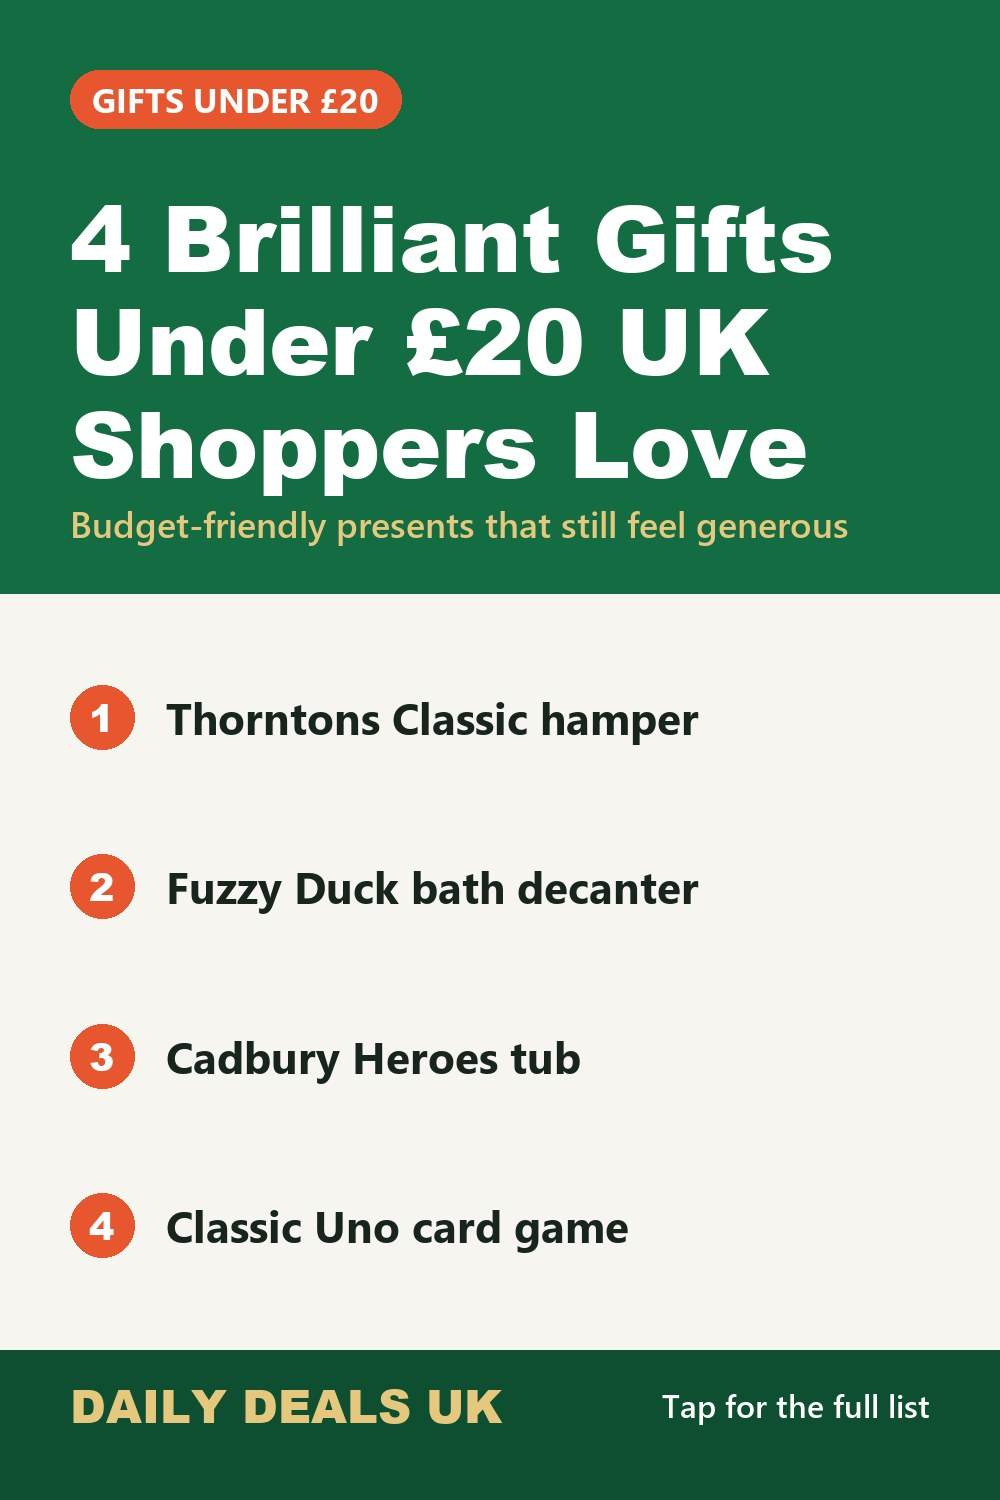
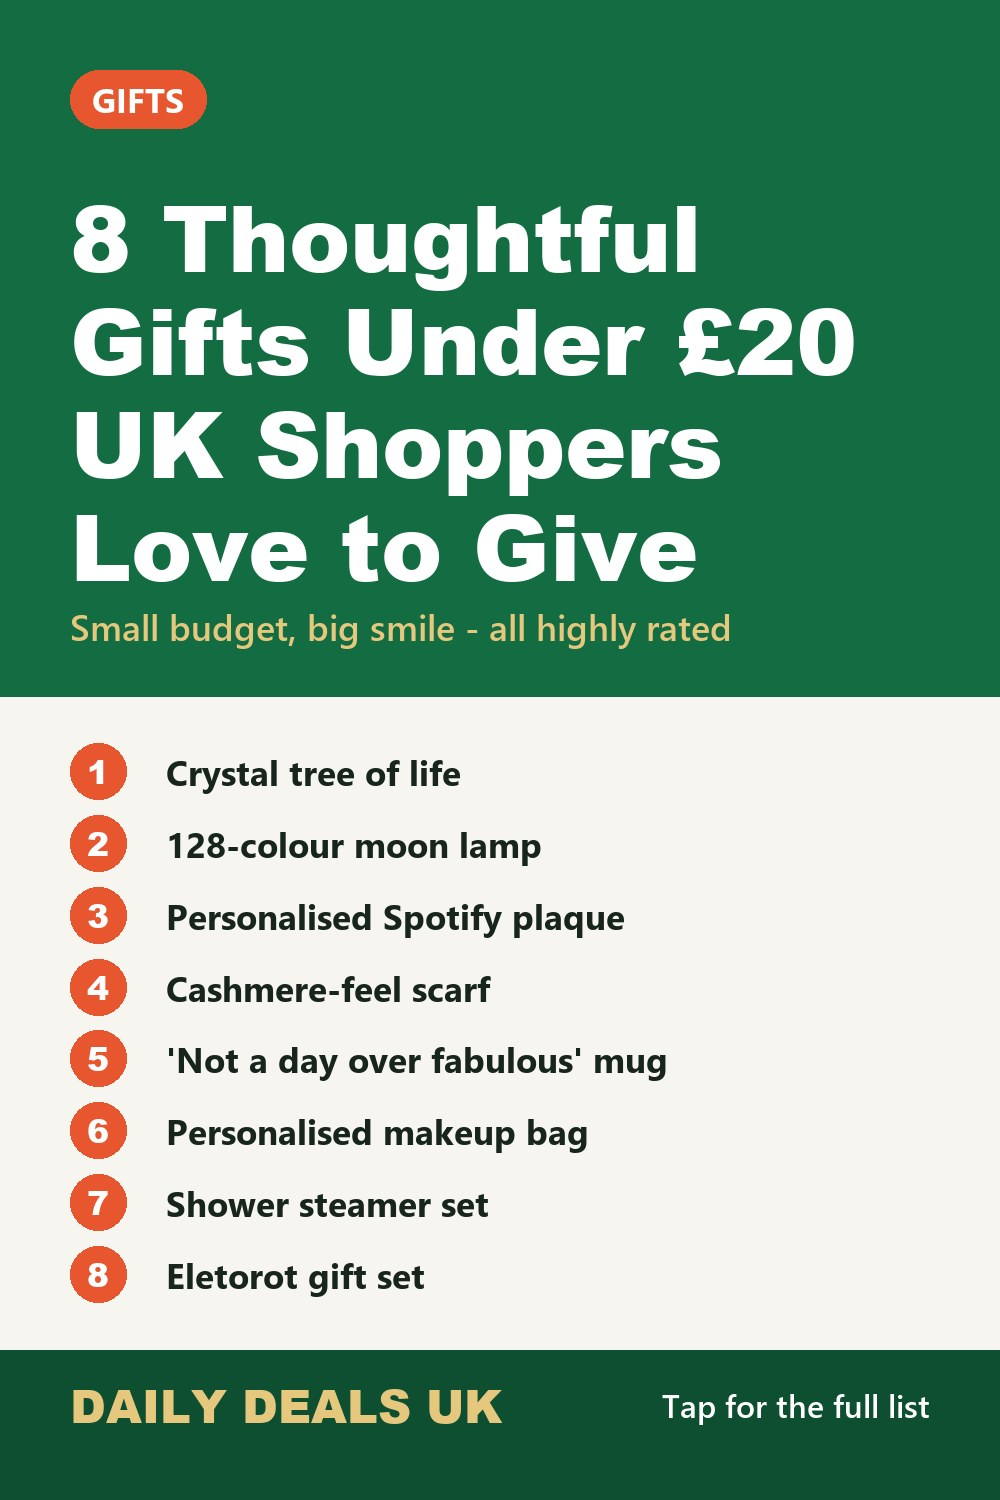
Daily Deals UK: 2026-09-25 roundup

Changed region(s): [[0.0, 0.1227, 1.0, 0.8893], [0.186, 0.0307, 0.403, 0.092]]

diff --git a/deals/2026-09-25/index.html b/deals/2026-09-25/index.html
@@ -1,8 +1,8 @@
 <!doctype html><html lang="en-GB"><head><meta charset="utf-8">
 <meta name="viewport" content="width=device-width,initial-scale=1">
-<title>4 Brilliant Gifts Under £20 UK Shoppers Love</title><meta name="description" content="Well-reviewed gifts under £20 from Amazon UK: a Thorntons chocolate hamper, a light-up Baylis &amp; Harding pamper decanter, a Cadbury Heroes tub and the classic Uno card game. Easy present ideas for birthdays, thank-yous and Christmas on a budget. #ad #giftsunder20 #giftideas #ukgifts #budgetgifts">
-<meta property="og:type" content="article"><meta property="og:title" content="4 Brilliant Gifts Under £20 UK Shoppers Love">
-<meta property="og:description" content="Well-reviewed gifts under £20 from Amazon UK: a Thorntons chocolate hamper, a light-up Baylis &amp; Harding pamper decanter, a Cadbury Heroes tub and the classic Uno card game. Easy present ideas for birthdays, thank-yous and Christmas on a budget. #ad #giftsunder20 #giftideas #ukgifts #budgetgifts"><meta property="og:image" content="https://dailydealsuk.co.uk/deals/2026-09-25/pin.jpg">
+<title>8 Thoughtful Gifts Under £20 UK Shoppers Love to Give</title><meta name="description" content="Thoughtful gift ideas under £20 from Amazon UK: a crystal tree of life, a colour-changing moon lamp, a personalised Spotify photo frame, a cashmere-feel scarf and more. Budget-friendly birthday gifts and treat-yourself finds. #ad #giftideas #giftsforher #ukgifts #budgetgifts">
+<meta property="og:type" content="article"><meta property="og:title" content="8 Thoughtful Gifts Under £20 UK Shoppers Love to Give">
+<meta property="og:description" content="Thoughtful gift ideas under £20 from Amazon UK: a crystal tree of life, a colour-changing moon lamp, a personalised Spotify photo frame, a cashmere-feel scarf and more. Budget-friendly birthday gifts and treat-yourself finds. #ad #giftideas #giftsforher #ukgifts #budgetgifts"><meta property="og:image" content="https://dailydealsuk.co.uk/deals/2026-09-25/pin.jpg">
 <meta property="og:url" content="https://dailydealsuk.co.uk/deals/2026-09-25/"><meta name="pinterest-rich-pin" content="true">
 <link rel="alternate" type="application/rss+xml" title="Daily Deals UK" href="https://dailydealsuk.co.uk/deals/feed.xml">
 <link rel="preconnect" href="https://fonts.googleapis.com">
@@ -32,6 +32,6 @@ padding:9px 16px;border-radius:10px;margin-top:6px}
 .grid a{color:inherit;text-decoration:none}.grid img{width:100%;border-radius:12px;display:block}
 .grid span{display:block;font-weight:600;margin-top:6px}.grid small{color:var(--dim)}
 footer{margin-top:40px;font-size:13px;color:var(--dim)}
-</style></head><body><div class="wrap"><header><a href="https://dailydealsuk.co.uk/deals/">&larr; Daily Deals UK</a></header><span class="theme">Gifts Under £20</span><h1>4 Brilliant Gifts Under £20 UK Shoppers Love</h1><p class="intro">A small budget doesn&#x27;t mean a boring gift - these four are all crowd-pleasers that consistently earn great reviews without breaking £20.</p><p class="disc">As an Amazon Associate I earn from qualifying purchases. Links below are affiliate links (#ad).</p><div class="item"><div class="num">1</div><span class="cat">Food gift</span><h2>A chocolate box that suits everyone</h2><p class="name">Thorntons Classic Collection Chocolate Hamper Gift Box, Assorted Milk, White and Dark Chocolates, 449g</p><p>A well-loved mix of milk, white and dark chocolates in a proper gift box, easy to send for birthdays, thank-yous or just because.</p><a class="btn" href="https://www.amazon.co.uk/dp/B09D9N92Z6?tag=dailydeal07d1-21" rel="sponsored nofollow noopener" target="_blank">Check today's price on Amazon</a></div><div class="item"><div class="num">2</div><span class="cat">Self-care</span><h2>A little at-home spa moment</h2><p class="name">Baylis &amp; Harding The Fuzzy Duck Winter Wonderland Light Up Bath Bubbles Decanter Gift</p><p>A reusable glass decanter of bath bubbles with a light-up base, a fun, giftable way to dress up a simple bubble bath.</p><a class="btn" href="https://www.amazon.co.uk/dp/B0D5HYRRTW?tag=dailydeal07d1-21" rel="sponsored nofollow noopener" target="_blank">Check today's price on Amazon</a></div><div class="item"><div class="num">3</div><span class="cat">Food gift</span><h2>The tub everyone reaches into first</h2><p class="name">Cadbury Heroes Chocolates Tub, 760g</p><p>A mix of mini Cadbury favourites that works as a gift, a party sharer or a treat for the office, and it&#x27;s a longstanding UK bestseller.</p><a class="btn" href="https://www.amazon.co.uk/dp/B00EP2QYY0?tag=dailydeal07d1-21" rel="sponsored nofollow noopener" target="_blank">Check today's price on Amazon</a></div><div class="item"><div class="num">4</div><span class="cat">Games</span><h2>A game night classic for under a tenner</h2><p class="name">Mattel Games UNO Card Game</p><p>The original Uno deck is cheap, portable and genuinely one of the best-reviewed card games on Amazon UK, a safe gift for almost anyone.</p><a class="btn" href="https://www.amazon.co.uk/dp/B00004TZY8?tag=dailydeal07d1-21" rel="sponsored nofollow noopener" target="_blank">Check today's price on Amazon</a></div><p class="intro">Published 25 September 2026.</p><footer><p>As an Amazon Associate I earn from qualifying purchases.</p><p>Products are picked from well-reviewed UK listings.
+</style></head><body><div class="wrap"><header><a href="https://dailydealsuk.co.uk/deals/">&larr; Daily Deals UK</a></header><span class="theme">Gifts</span><h1>8 Thoughtful Gifts Under £20 UK Shoppers Love to Give</h1><p class="intro">Eight easy, well-reviewed gift ideas that all come in under £20 - handy whether you&#x27;re shopping for a birthday, a thank-you or just because.</p><p class="disc">As an Amazon Associate I earn from qualifying purchases. Links below are affiliate links (#ad).</p><div class="item"><div class="num">1</div><span class="cat">Home decor</span><h2>A pretty desk piece that doubles as a gift</h2><p class="name">Crocon The Original 7 Chakra Crystal Tree of Life</p><p>A handmade gemstone tree that looks far pricier than it is, and it&#x27;s one of Amazon UK&#x27;s most-reviewed crystal gifts.</p><a class="btn" href="https://www.amazon.co.uk/dp/B07BNJ76LM?tag=dailydeal07d1-21" rel="sponsored nofollow noopener" target="_blank">Check today's price on Amazon</a></div><div class="item"><div class="num">2</div><span class="cat">Home decor</span><h2>A cosy nightlight that changes with your mood</h2><p class="name">ACED 3D Printing Moon Lamp, 128 Colours, 15cm</p><p>A realistic 3D-printed moon that cycles through colours via remote, a fun bedside gift for kids or adults alike.</p><a class="btn" href="https://www.amazon.co.uk/dp/B07CZB7FLN?tag=dailydeal07d1-21" rel="sponsored nofollow noopener" target="_blank">Check today's price on Amazon</a></div><div class="item"><div class="num">3</div><span class="cat">Personalised gifts</span><h2>Turn a favourite song into a keepsake</h2><p class="name">LUCKOR Personalised Spotify Photo Frame, Custom Acrylic Plaque Night Light</p><p>A custom acrylic plaque that plays a chosen Spotify track when scanned, a genuinely personal touch for very little money.</p><a class="btn" href="https://www.amazon.co.uk/dp/B0CJ3251YL?tag=dailydeal07d1-21" rel="sponsored nofollow noopener" target="_blank">Check today's price on Amazon</a></div><div class="item"><div class="num">4</div><span class="cat">Accessories</span><h2>A soft, cosy layer for chilly days</h2><p class="name">ehsbuy Cashmere-Feel Scarf, Reversible Pashmina Shawl and Wrap</p><p>A reversible, soft-touch scarf that reads as a much more expensive gift than its price suggests.</p><a class="btn" href="https://www.amazon.co.uk/dp/B098S6ZY76?tag=dailydeal07d1-21" rel="sponsored nofollow noopener" target="_blank">Check today's price on Amazon</a></div><div class="item"><div class="num">5</div><span class="cat">Novelty gifts</span><h2>A cheeky birthday mug that gets used daily</h2><p class="name">Not A Day Over Fabulous Birthday Mug</p><p>A well-made mug with a fun slogan that&#x27;s a reliable, low-effort gift for a friend, sister or mum.</p><a class="btn" href="https://www.amazon.co.uk/dp/B07Z3TSPZL?tag=dailydeal07d1-21" rel="sponsored nofollow noopener" target="_blank">Check today's price on Amazon</a></div><div class="item"><div class="num">6</div><span class="cat">Personalised gifts</span><h2>A practical gift with a personal initial</h2><p class="name">A-Z Personalised Makeup Bag, Birthday Gift for Women</p><p>A sturdy, everyday makeup bag made personal with an initial, useful long after the wrapping paper&#x27;s gone.</p><a class="btn" href="https://www.amazon.co.uk/dp/B0BRZJDBD8?tag=dailydeal07d1-21" rel="sponsored nofollow noopener" target="_blank">Check today's price on Amazon</a></div><div class="item"><div class="num">7</div><span class="cat">Self-care</span><h2>A little spa moment in the shower</h2><p class="name">Linkax Shower Steamers Aromatherapy, 8 Pack</p><p>Aromatherapy shower steamers that turn an ordinary shower into a relaxing ritual, an easy stocking-filler style gift.</p><a class="btn" href="https://www.amazon.co.uk/dp/B0CQC9RZ51?tag=dailydeal07d1-21" rel="sponsored nofollow noopener" target="_blank">Check today's price on Amazon</a></div><div class="item"><div class="num">8</div><span class="cat">Gift sets</span><h2>A ready-to-wrap gift that needs no extra thought</h2><p class="name">Eletorot Birthday Gift Set for Women</p><p>A pre-packaged gift set that takes the guesswork out of last-minute birthday shopping.</p><a class="btn" href="https://www.amazon.co.uk/dp/B0D7HTQS8B?tag=dailydeal07d1-21" rel="sponsored nofollow noopener" target="_blank">Check today's price on Amazon</a></div><p class="intro">Published 25 September 2026.</p><footer><p>As an Amazon Associate I earn from qualifying purchases.</p><p>Products are picked from well-reviewed UK listings.
 Prices and availability change often, so always check the current price on Amazon before buying.</p>
 <p>&copy; 2026 Daily Deals UK</p></footer></div></body></html>

diff --git a/deals/index.html b/deals/index.html
@@ -32,6 +32,6 @@ padding:9px 16px;border-radius:10px;margin-top:6px}
 .grid a{color:inherit;text-decoration:none}.grid img{width:100%;border-radius:12px;display:block}
 .grid span{display:block;font-weight:600;margin-top:6px}.grid small{color:var(--dim)}
 footer{margin-top:40px;font-size:13px;color:var(--dim)}
-</style></head><body><div class="wrap"><h1>Daily Deals UK</h1><p class="intro">Hand-picked, well-reviewed UK finds for home, kitchen, cleaning and gifts - a new list every day.</p><p class="disc">As an Amazon Associate I earn from qualifying purchases.</p><div class="grid"><a href="https://dailydealsuk.co.uk/deals/2026-09-25/"><img src="https://dailydealsuk.co.uk/deals/2026-09-25/pin.jpg" alt="4 Brilliant Gifts Under £20 UK Shoppers Love" loading="lazy"><span>4 Brilliant Gifts Under £20 UK Shoppers Love</span><small>25 September 2026</small></a><a href="https://dailydealsuk.co.uk/deals/2026-09-24/"><img src="https://dailydealsuk.co.uk/deals/2026-09-24/pin.jpg" alt="5 Beauty &amp; Self-Care Buys UK Shoppers Rate Highly" loading="lazy"><span>5 Beauty &amp; Self-Care Buys UK Shoppers Rate Highly</span><small>24 September 2026</small></a><a href="https://dailydealsuk.co.uk/deals/2026-09-23/"><img src="https://dailydealsuk.co.uk/deals/2026-09-23/pin.jpg" alt="4 Home Organisation Storage Buys UK Homes Swear By" loading="lazy"><span>4 Home Organisation Storage Buys UK Homes Swear By</span><small>23 September 2026</small></a></div><footer><p>As an Amazon Associate I earn from qualifying purchases.</p><p>Products are picked from well-reviewed UK listings.
+</style></head><body><div class="wrap"><h1>Daily Deals UK</h1><p class="intro">Hand-picked, well-reviewed UK finds for home, kitchen, cleaning and gifts - a new list every day.</p><p class="disc">As an Amazon Associate I earn from qualifying purchases.</p><div class="grid"><a href="https://dailydealsuk.co.uk/deals/2026-09-25/"><img src="https://dailydealsuk.co.uk/deals/2026-09-25/pin.jpg" alt="8 Thoughtful Gifts Under £20 UK Shoppers Love to Give" loading="lazy"><span>8 Thoughtful Gifts Under £20 UK Shoppers Love to Give</span><small>25 September 2026</small></a><a href="https://dailydealsuk.co.uk/deals/2026-09-24/"><img src="https://dailydealsuk.co.uk/deals/2026-09-24/pin.jpg" alt="5 Beauty &amp; Self-Care Buys UK Shoppers Rate Highly" loading="lazy"><span>5 Beauty &amp; Self-Care Buys UK Shoppers Rate Highly</span><small>24 September 2026</small></a><a href="https://dailydealsuk.co.uk/deals/2026-09-23/"><img src="https://dailydealsuk.co.uk/deals/2026-09-23/pin.jpg" alt="4 Home Organisation Storage Buys UK Homes Swear By" loading="lazy"><span>4 Home Organisation Storage Buys UK Homes Swear By</span><small>23 September 2026</small></a></div><footer><p>As an Amazon Associate I earn from qualifying purchases.</p><p>Products are picked from well-reviewed UK listings.
 Prices and availability change often, so always check the current price on Amazon before buying.</p>
 <p>&copy; 2026 Daily Deals UK</p></footer></div></body></html>
